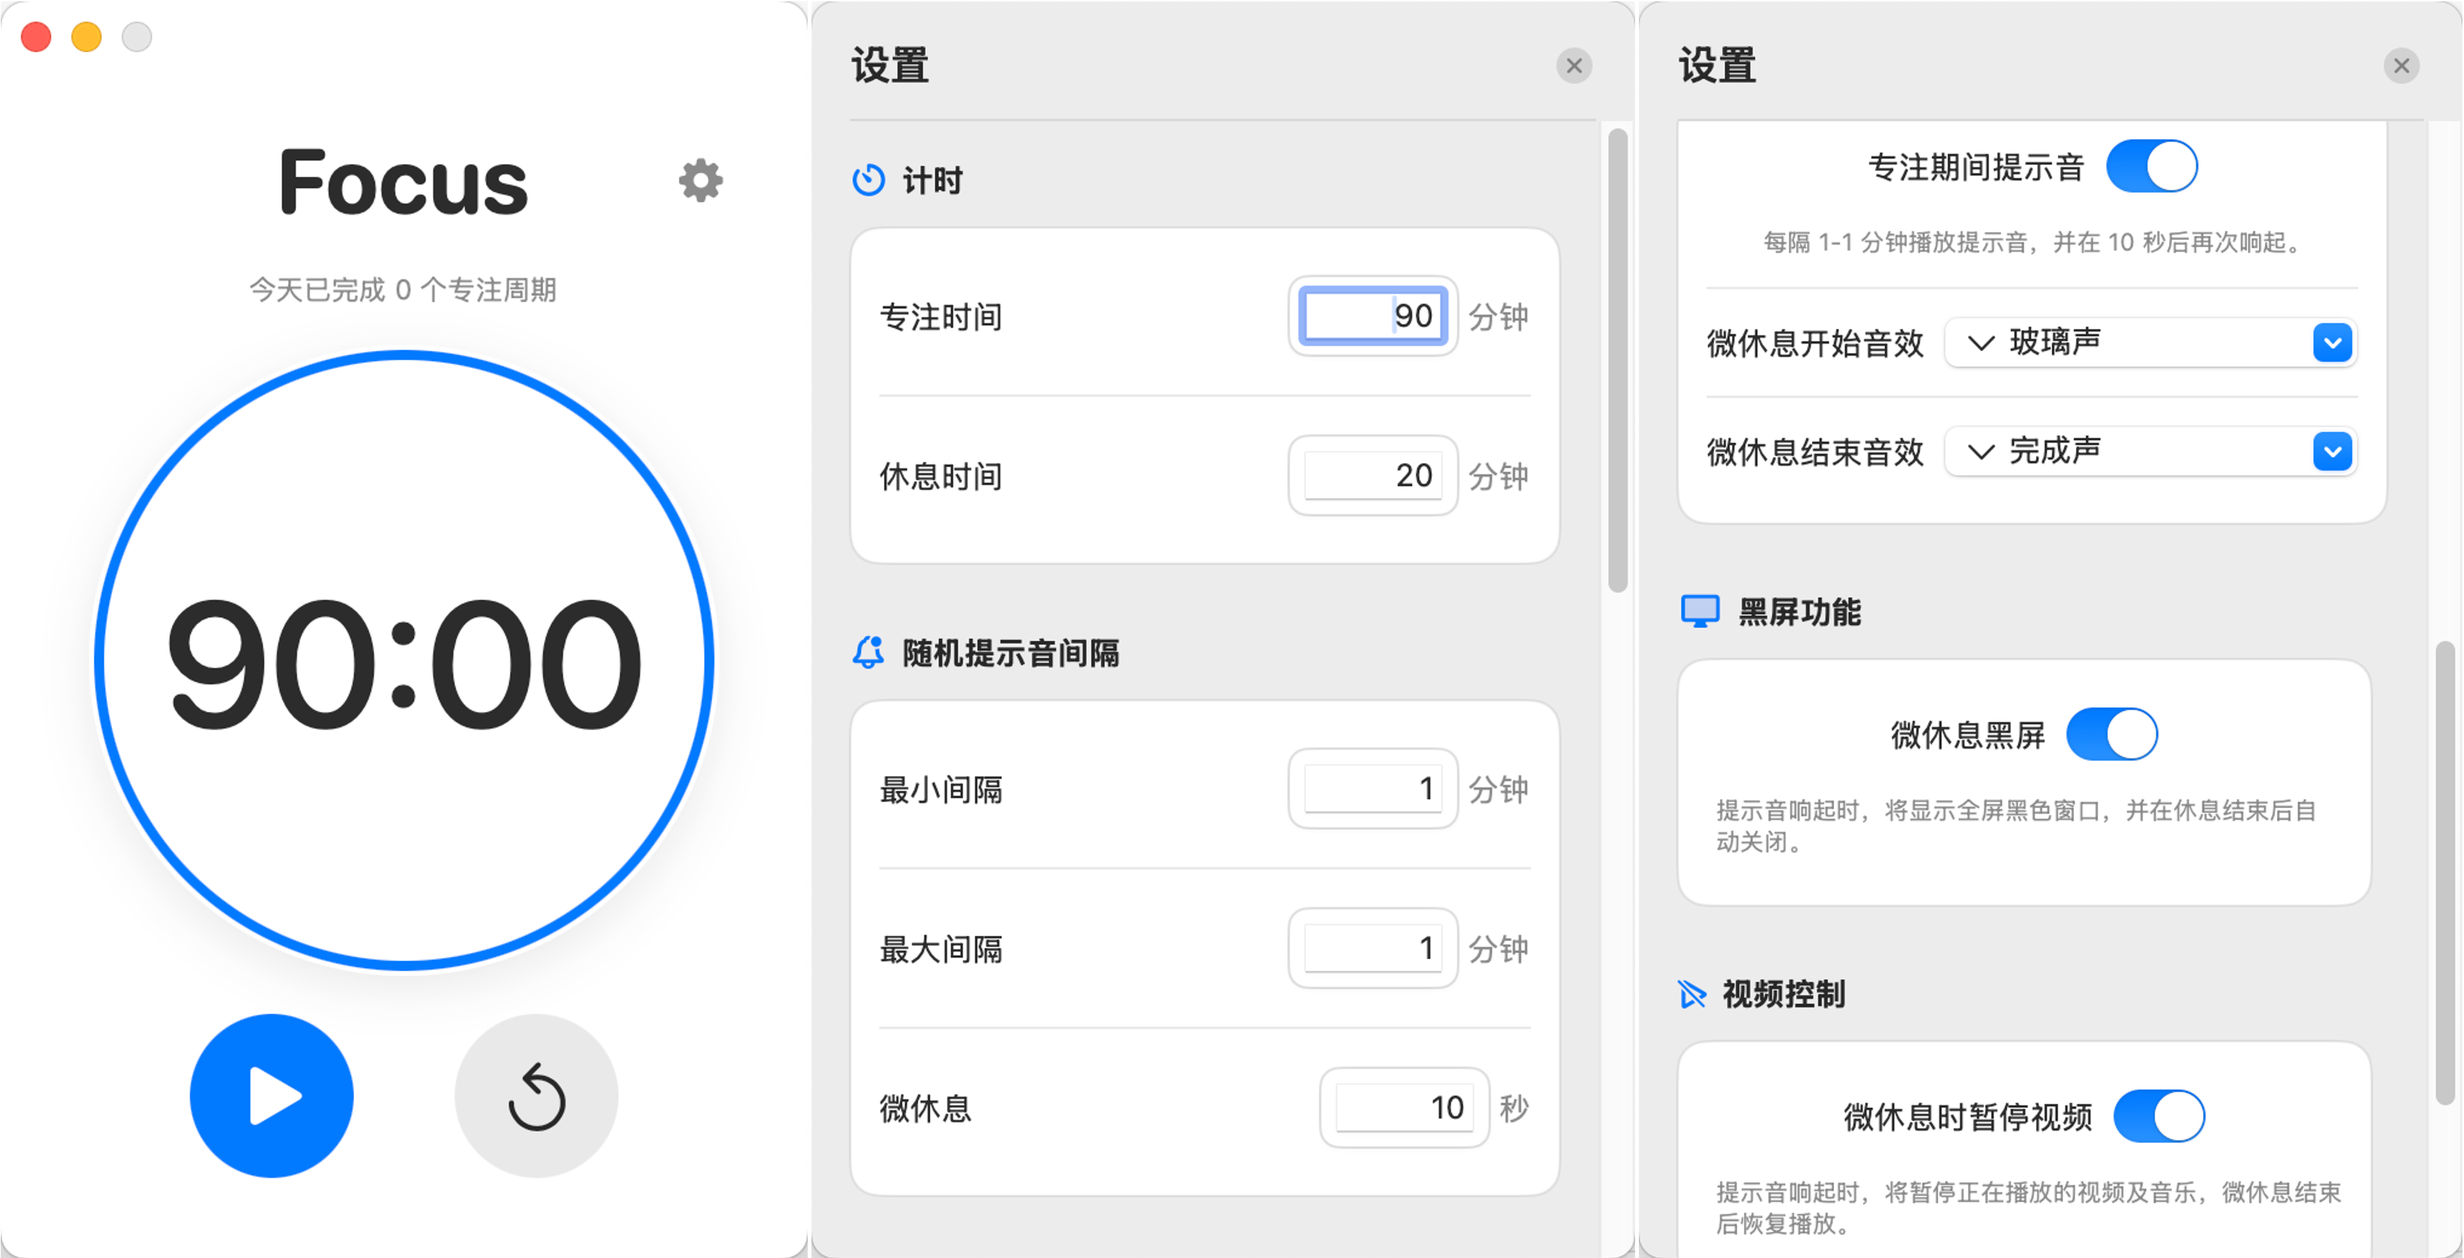
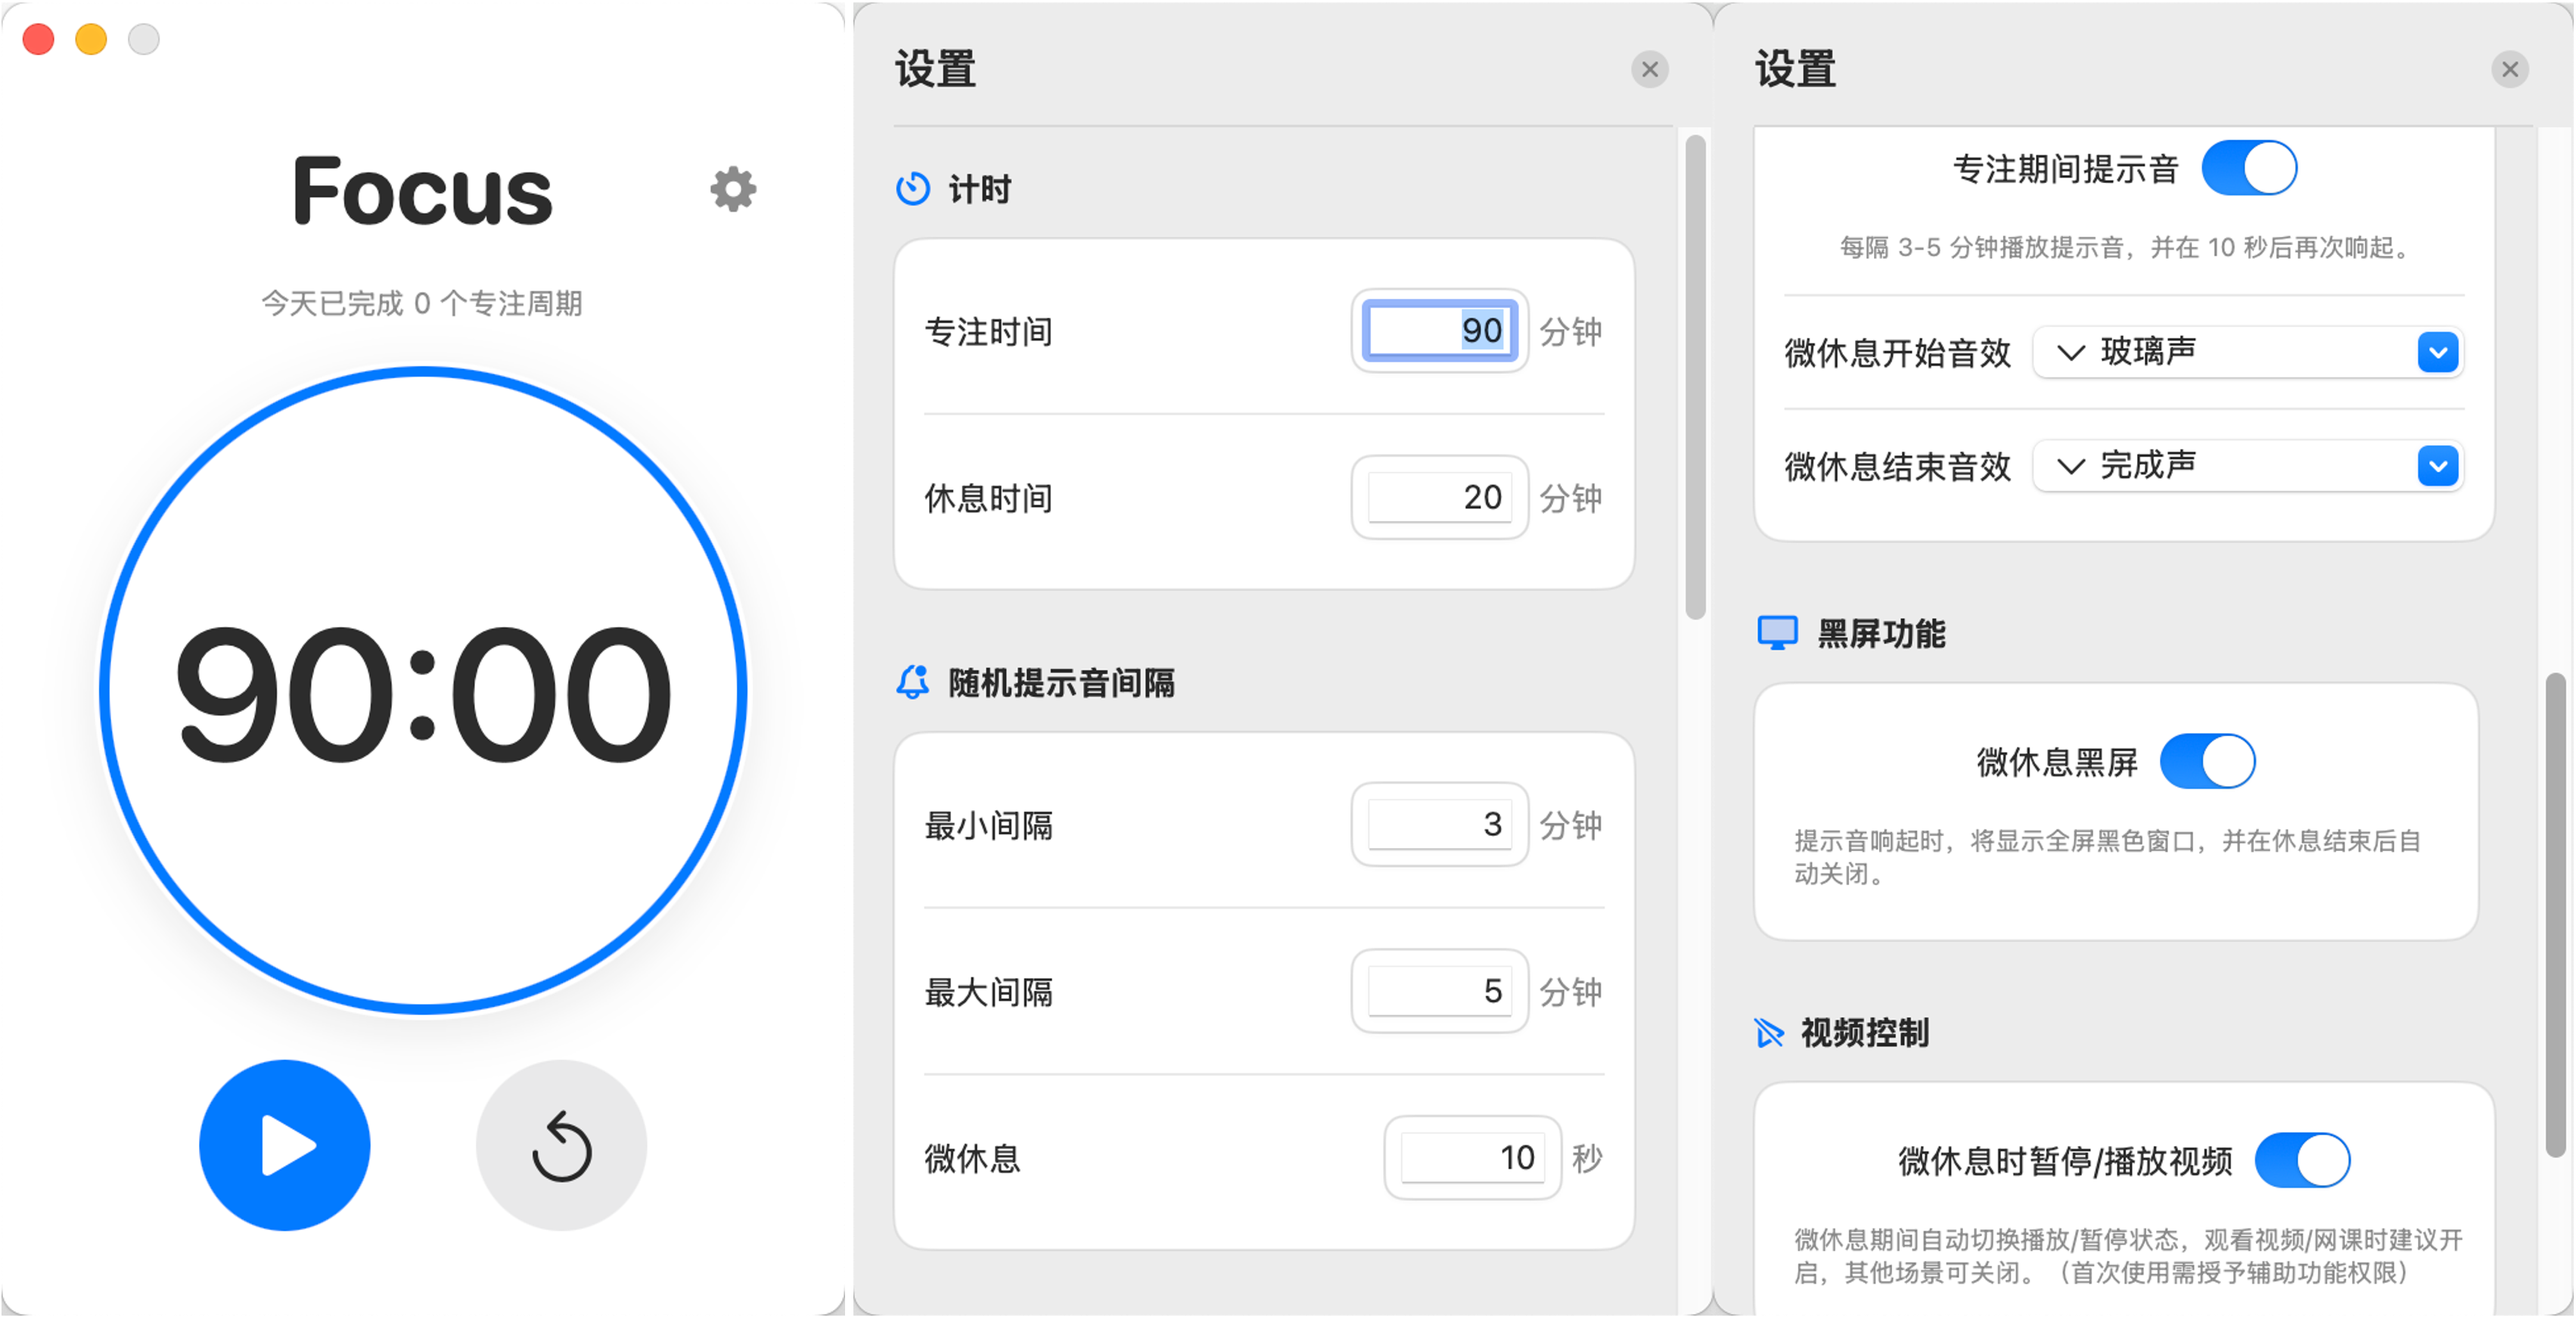
更新设置界面，修改微休息时视频控制的默认状态为关闭，并优化相关提示文本。同时更新音效设置的默认值为玻璃声和完成声。

diff --git a/Focus/SettingsView.swift b/Focus/SettingsView.swift
@@ -378,14 +378,14 @@ struct SettingsView: View {
                     settingsSection(title: "视频控制", systemImage: "play.slash") {
                         VStack(spacing: 12) {
                             Toggle(isOn: $timerManager.muteAudioDuringBreak) {
-                                Text("微休息时暂停视频")
+                                Text("微休息时暂停/播放视频")
                                     .foregroundColor(.primary)
                             }
                             .toggleStyle(SwitchToggleStyle(tint: .accentColor))
                             .disabled(timerManager.timerRunning)
                             
                             if timerManager.muteAudioDuringBreak {
-                                Text("提示音响起时，将暂停正在播放的视频及音乐，微休息结束后恢复播放。")
+                                Text("微休息期间自动切换播放/暂停状态，观看视频/网课时建议开启，其他场景可关闭。（首次使用需授予辅助功能权限）")
                                     .font(.footnote)
                                     .foregroundColor(.secondary)
                                     .padding(.top, 2)

diff --git a/Focus/TimerManager.swift b/Focus/TimerManager.swift
@@ -232,7 +232,7 @@ class TimerManager: ObservableObject {
         if UserDefaults.standard.object(forKey: muteAudioDuringBreakKey) != nil {
             self.muteAudioDuringBreak = UserDefaults.standard.bool(forKey: muteAudioDuringBreakKey)
         } else {
-            self.muteAudioDuringBreak = true // 默认启用
+            self.muteAudioDuringBreak = false // 默认关闭视频控制
         }
         
         // 微休息开始声音设置
@@ -240,7 +240,7 @@ class TimerManager: ObservableObject {
            let soundType = SoundType(rawValue: soundTypeString) {
             self.microBreakStartSoundType = soundType
         } else {
-            self.microBreakStartSoundType = .tink // 默认值
+            self.microBreakStartSoundType = .glass // 默认值改为玻璃声
         }
 
         // 微休息结束声音设置
@@ -248,7 +248,7 @@ class TimerManager: ObservableObject {
            let soundType = SoundType(rawValue: soundTypeString) {
             self.microBreakEndSoundType = soundType
         } else {
-            self.microBreakEndSoundType = .hero // 默认值
+            self.microBreakEndSoundType = .hero // 默认值改为完成声
         }
 
         // 初始化计时器状态
